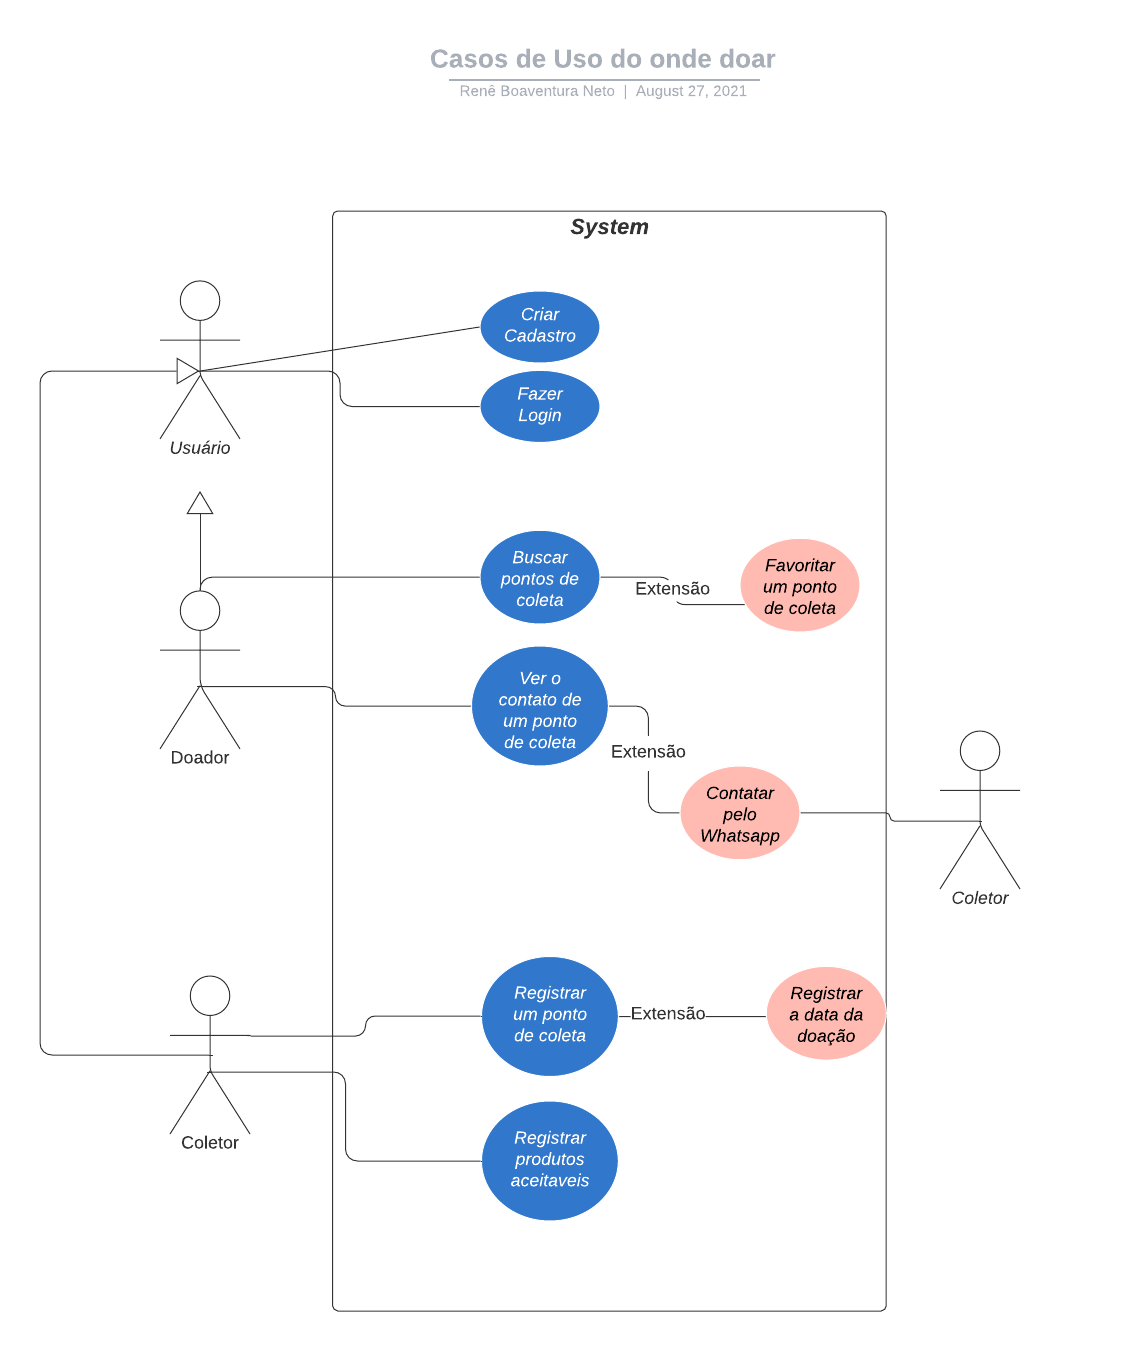
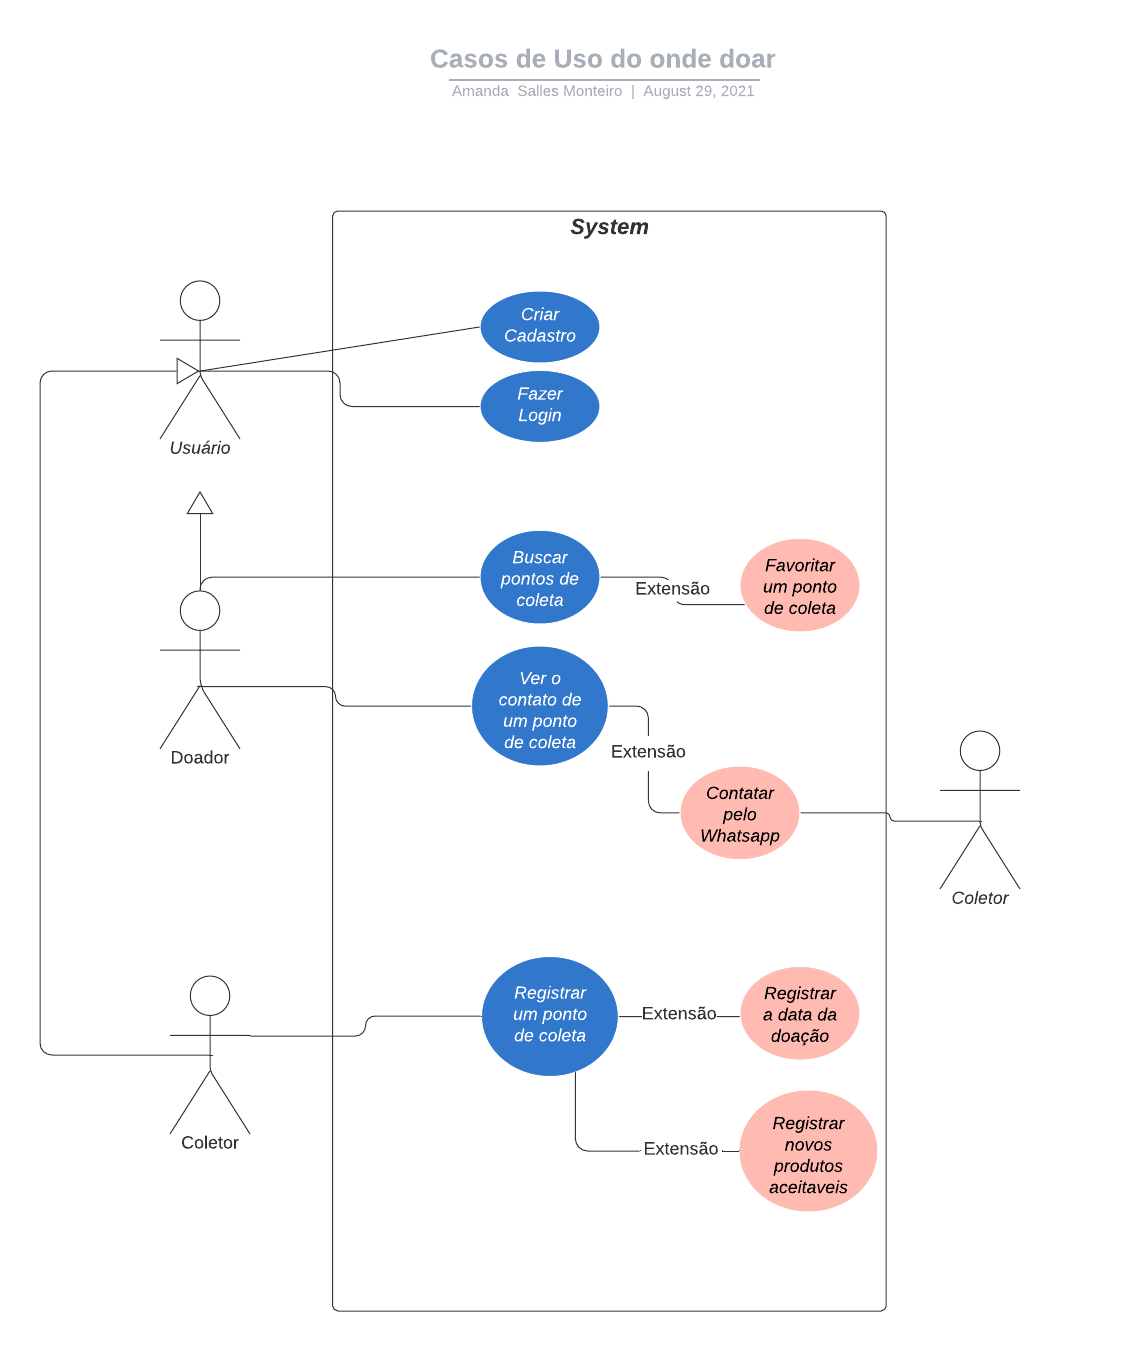
update depois do último pull do repo antigo

diff --git a/docs/02-Especificação do Projeto.md b/docs/02-Especificação do Projeto.md
@@ -80,10 +80,10 @@ Com base na análise das personas foram identificadas as seguintes histórias de
 
 |EU COMO... `PERSONA`| QUERO/PRECISO ... `FUNCIONALIDADE` |PARA ... `MOTIVO/VALOR`                 |
 |--------------------|------------------------------------|----------------------------------------|
-|João Mendes  | criar um cadastro   | acessar a plataforma              |
+|João Mendes  | criar um cadastro como coletor  | acessar a plataforma              |
 |João Mendes  | registrar um ponto de coleta   | atingir mais doadores             |
 |João Mendes  | registrar o tipo de produtos que recebe   | evitar doações de produtos que não tem um distribuidor definido             |
-|Anita Camões  | criar um cadastro   | acessar a plataforma              |
+|Anita Camões  | criar um cadastro como coletora   | acessar a plataforma              |
 |Anita Camões  | registrar um ponto de coleta   | atingir mais doadores             |
 |Anita Camões  | registrar a data da próxima distribuição   | conseguir ajuda de mais voluntários             |
 |Camila Themes  | encontrar pontos de coleta perto de sua residência   | marcar a coleta da doação            |
@@ -99,20 +99,26 @@ As tabelas que se seguem apresentam os requisitos funcionais e não funcionais q
 ### Requisitos Funcionais
 
 |ID    | Descrição do Requisito  | Prioridade |
-|------|-----------------------------------------|----|
-|RF-001| Permitir que o usuário cadastre seu perfil | ALTA | 
-|RF-002| Permitir que o usuário efetue login | ALTA | 
-|RF-003| Permitir que o usuário efetue logout | ALTA | 
-|RF-004| Permitir que o usuário instituição cadastre o tipo de produto que recebe | ALTA | 
-|RF-005| Permitir que o usuário procure por estabelecimentos próximos de sua localização | ALTA | 
-|RF-006| Permitir que o usuário instituição cadastre a data da próxima coleta | MÉDIA | 
-|RF-007| Permitir que o usuário envie mensagem para uma instituição  | BAIXA |   
-|RF-007| Permitir que o usuário filtre as instituições pelo tipo de doação que deseja fazer  | BAIXA |   
+|------|-----------------------------------------|---------|
+|RF-001 | Permitir que o usuário crie cadastro como coletor | ALTA |
+|RF-002 | Permitir que o usuário crie cadastro como doador | ALTA |
+|RF-003 | Permitir que o usuário efetue login | ALTA |
+|RF-004 | Permitir que o usuário efetue logout | ALTA |
+|RF-005 | Permitir que o usuário visualize um ponto de coleta | ALTA |
+|RF-006 | Permitir que o usuário coletor cadastre um ponto de coleta | ALTA |
+|RF-007 | Permitir que o usuário coletor edite um ponto de coleta | ALTA |
+|RF-008 | Permitir que o usuário coletor delete um ponto de coleta | ALTA |
+|RF-009 | Permitir que o usuário coletor cadastre um novo tipo de produto que recebe | ALTA |
+|RF-010 | Permitir que o usuário procure por estabelecimentos próximos de sua localização | ALTA |
+|RF-011 | Permitir que o usuário envie mensagem para um ponto de coleta | BAIXA |
+|RF-012 | Permitir que o usuário filtre os pontos de coleta pelo tipo de doação que deseja fazer | BAIXA |
+|RF-013 | Permitir que o usuário doador favorite pontos de coleta | BAIXA |
+
 
 ### Requisitos não Funcionais
 
 |ID     | Descrição do Requisito  |Prioridade |
-|-------|-------------------------|----|
+|-------|-------------------------|-----------|
 |RNF-001| O sistema deve focado para o uso em mobile (mobile-first) | ALTO | 
 |RNF-002| O sistema deve funcionar nos principais browsers para mobile (chrome e safari) | ALTO | 
 |RNF-003| O sistema deve ser responsivo para rodar em um dispositivos móvel e web | MÉDIA | 
@@ -137,3 +143,28 @@ O projeto está restrito pelos itens apresentados na tabela a seguir.
 |06| O projeto deve seguir as regras de acessibilidade da w3c        |
 |07| A quantidade de trabalho deve caber na rotina compartilhada com família e trabalho        |
 |08| A organização do projeto deve possibilitar o trabalho assíncrono        |
+
+<br><br>
+
+## Descrição dos Casos de Uso
+
+| Caso de Uso     | Descrição      |  
+|:----------------|:---------------|
+| Gerenciar Ponto de Coleta | <p> Permite que o usuário Coletor cadastre, altere ou delete um ponto de coleta.|
+| Manter Doador | <p> Permite que o usuário Doador se cadastre, altere ou delete perifl.|
+| Cadastrar um Tipo de Produto | <p> Permite que o usuário Coletor cadastre um novo tipo de produto que aceita<br> ou está apto a realizar doação.|
+| Visualizar um Ponto de Coleta | <p> Permite que o usuário Doador visualize um ponto de coleta.|
+| Contatar um Ponto de Coleta pelo Whatsapp  | <p> Permite que o usuário Doador envie uma mensagem via whatsapp <br>para o ponto de coleta selecionado.|
+| Manter Ponto de Coleta Favorito | <p> Permite ao usuário Doador favoritar e desfavoritar pontos de coleta e listar favoritos.|
+| Buscar Ponto de Coleta |<p> Permite que o usuário busque pontos de coleta por localização, nome ou<br> tipos de produtos que aceitam.|
+
+<br>
+
+## Definição dos Atores
+
+
+|    Ator         |  Definição     |  
+|:----------------|:---------------|
+| Coletor | Cidadão que recebe doações para encaminhá-las a pessoas necessitadas<br> ou intermediar doações à uma instiutição|
+| Doador  | Cidadão que deseja realizar uma doação |
+| Sistema | Sistema que mantém cadastro de pontos de coleta de doações diversas |

diff --git a/docs/03-Metodologia.md b/docs/03-Metodologia.md
@@ -49,19 +49,19 @@ Scrum Master : Amanda Salles Monteiro
 Project Owner: Renê Boaventura Neto
 
 Desenvolvedores:
-- Renê Boaventura Neto - Main
-- Amanda Salles Monteiro - Reviewer
+- Renê Boaventura Neto 
+- Amanda Salles Monteiro 
 
 Designers: 
-- Amanda Salles Monteiro - Main
-- Renê Boaventura Neto - Reviewer
+- Amanda Salles Monteiro
+- Renê Boaventura Neto 
 
 ### Processo
 
 Para dividir nossos processos vamos utilizar a metodologia Scrum.
 Nossas sprints tem uma semana sendo a divisão das tarefas feitas no Sábado e baseada na entrega semanal ao cliente que deve ser feita geralmente na Terça-Feira às 20hs. 
 
-[Link para o kanban](https://github.com/ICEI-PUC-Minas-PMV-ADS/pmv-ads-2021-1-e1-proj-web-t2-doacaodealimentos/projects/2)
+[Link para o kanban](https://github.com/adnamamonteiro/projeto-doacoes/projects/2)
 
 #### Backlog
 No início do nosso processo levantamos os requisitos necessários para a próxima entrega e colocamos no kanban do projeto na aba To Do para que cada integrante escolha suas tarefas. 
@@ -102,13 +102,14 @@ As ferramentas empregadas no projeto são:
 
 |Função    | Plataforma  | Link de Acesso |
 |------|-----------------------------------------|----|
-| Ferramentas de comunicação | Microsoft Teams| [teams.com](https://teams.microsoft.com/_#/school/conversations/Grupo%2004%20-%20Doa%C3%A7%C3%A3o%20de%20alimentos?groupId=f3eea540-4f48-4502-97be-5c1864eecd76&threadId=19:2c749bce7ac14388aa8710cfe5551d46@thread.tacv2&ctx=channel)
-| Apresentação | Power Point 365 + Teams| [teams.com](https://teams.microsoft.com/_#/school/conversations/Grupo%2004%20-%20Doa%C3%A7%C3%A3o%20de%20alimentos?groupId=f3eea540-4f48-4502-97be-5c1864eecd76&threadId=19:2c749bce7ac14388aa8710cfe5551d46@thread.tacv2&ctx=channel)
-| Documentos do projeto | Teams| [teams.com](https://teams.microsoft.com/_#/school/conversations/Grupo%2004%20-%20Doa%C3%A7%C3%A3o%20de%20alimentos?groupId=f3eea540-4f48-4502-97be-5c1864eecd76&threadId=19:2c749bce7ac14388aa8710cfe5551d46@thread.tacv2&ctx=channel)
-| Repositório | Github | [github/cozinhaamiga](https://github.com/ICEI-PUC-Minas-PMV-ADS/pmv-ads-2021-1-e1-proj-web-t2-doacaodealimentos) |
-| Organização de tarefas | Kanban Github| [github/projects](https://github.com/ICEI-PUC-Minas-PMV-ADS/pmv-ads-2021-1-e1-proj-web-t2-doacaodealimentos/projects/1)
-| Editor de código | Visual Studio Code| [visualstudio.com](https://code.visualstudio.com/)
-| Ferramentas de diagramação e projeto de interfaces | Figma| [figma.com/cozinhaamiga](https://www.figma.com/file/kJm66Xw2RDGCbqpeIvepLn/Design-para-doa%C3%A7%C3%A3o-de-alimentos)
+| Ferramentas de comunicação | Microsoft Teams| [teams.com](https://teams.microsoft.com/l/channel/19%3a8b1cc63b1dd348d2b074fd1da5068805%40thread.tacv2/Grupo%2520Ter%25C3%25A7a%252020h50%2520-%2520Projeto%2520Doa%25C3%25A7%25C3%25B5es?groupId=18d77840-33bd-47d2-910b-0f5c42a4de5c&tenantId=14cbd5a7-ec94-46ba-b314-cc0fc972a161)|
+| Apresentação | Power Point 365 | [office.com](https://sgapucminasbr-my.sharepoint.com/:p:/g/personal/1328929_sga_pucminas_br/EWYwcjw4R89Pk_dK-oFA8h8B4Al0dZfswmKdRSrDXkNJjg?e=iqoZ9u)|
+| Repositório | Github | [github/onde-doar](https://github.com/adnamamonteiro/projeto-doacoes) |
+| Organização de tarefas | Kanban Github| [github/projects](https://github.com/adnamamonteiro/projeto-doacoes/projects/2)|
+| Editor de código | Visual Studio Code| [visualstudio.com](https://code.visualstudio.com/)|
+| Ferramentas de diagramação e projeto de interfaces | Figma| [figma.com/onde-doar](https://www.figma.com/file/AnDAMIwcsLVi92pWUxlJYc/Design-para-doa%C3%A7%C3%A3o-de-alimentos?node-id=758%3A1)|
+
+<!-- | Documentos do projeto | Teams| [teams.com](https://teams.microsoft.com/_#/school/conversations/Grupo%2004%20-%20Doa%C3%A7%C3%A3o%20de%20alimentos?groupId=f3eea540-4f48-4502-97be-5c1864eecd76&threadId=19:2c749bce7ac14388aa8710cfe5551d46@thread.tacv2&ctx=channel) -->
 
 Com o intuito de economizar tempo e evitar o uso de múltiplas ferramentas com a mesma função, o grupo deu preferência para o uso das ferramentas já usadas e sugeridas pelo curso. 
 
